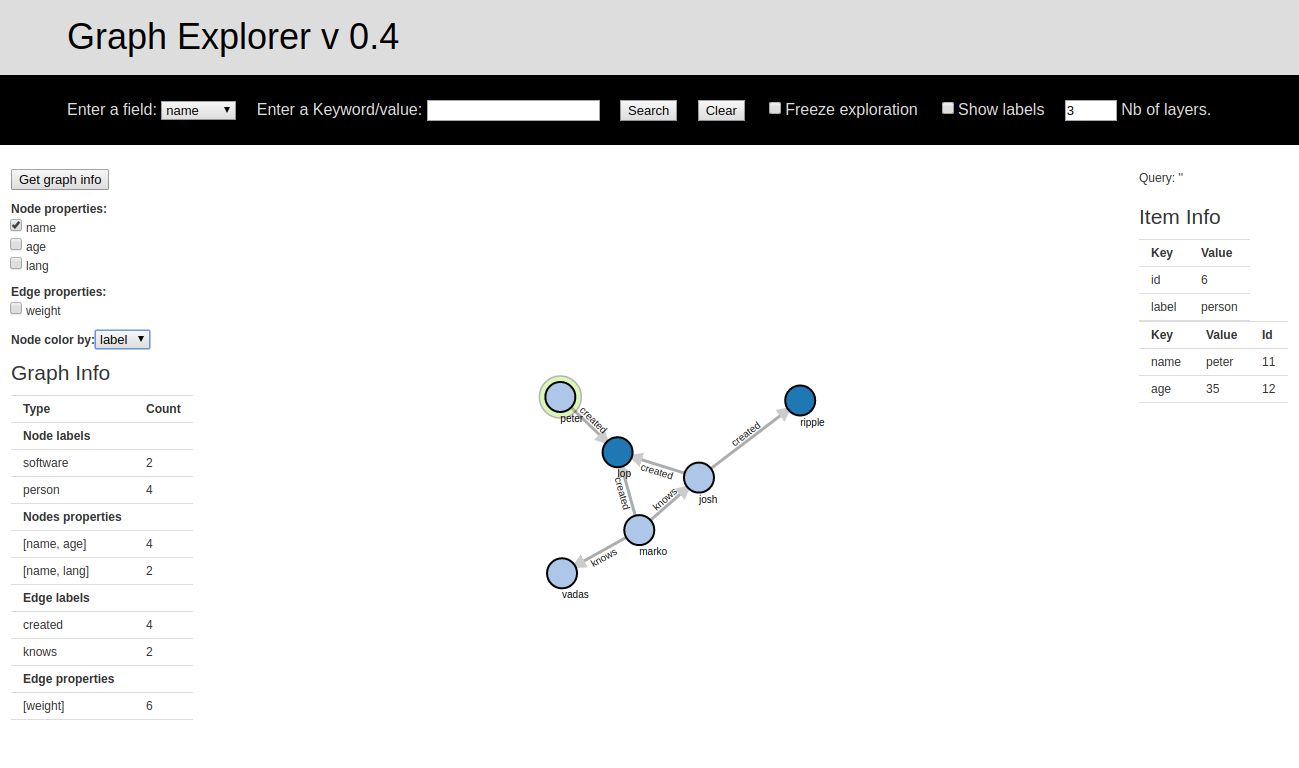
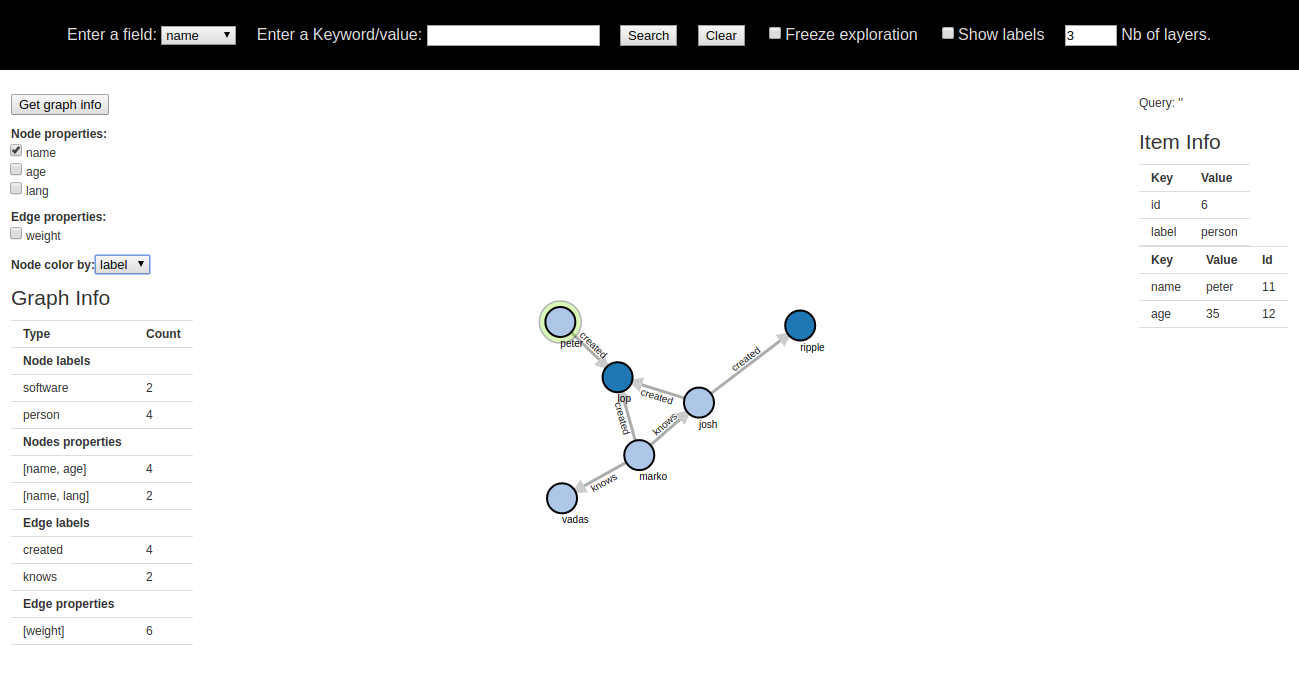
limit node display

diff --git a/graphexp.html b/graphexp.html
@@ -41,11 +41,13 @@
 
 	</head>
 	<body>
+		<!--
 		<div class="header">
 			<div class="container">
 				<h1 class="header-heading">Graph Explorer v 0.6</h1>
 			</div>
 		</div>
+		-->
 		<div class="nav-bar">
 			<div class="container" id="nav_bar">
 				<ul class="nav">
@@ -93,7 +95,7 @@
 		</div>
 		<div class="footer">
 			<div class="container">
-				<a href="http://www.github.com/bricaud/graphexp">About</a>
+				<a href="http://www.github.com/bricaud/graphexp">Graph Explorer V 0.6</a>
 			</div>
 		</div>
 		<!-- INITIALIZATION -->
@@ -172,8 +174,8 @@
 		var nav_bar = d3.select("#graphInfoBar");
 		nav_bar.select("#color_choice_"+item).remove();
 		var color_bar = nav_bar.append("div").attr("id","color_choice_"+item);
-		color_bar.append("text").text(text).style("font-weight","bold");
-		color_bar.append("select").attr("class","select").attr("id","color_select_"+item)
+		color_bar.append("div").append("text").text(text).style("font-weight","bold");
+		color_bar.append("div").append("select").attr("class","select").attr("id","color_select_"+item)
 			.attr("onchange","colorize(this)")
 			.selectAll("option")
 			.data(prop_list).enter()

diff --git a/scripts/graphioGremlin.js b/scripts/graphioGremlin.js
@@ -39,9 +39,13 @@ var graphioGremlin = (function(){
 	 	if (filtered_string.length>50) filtered_string = filtered_string.substring(0,50); // shorten long strings
 		// Translate to Gremlin query
 	  	if (input_string==""){
-	  		var gremlin_query_nodes = "nodes = g.V()"
-	  		var gremlin_query_edges = "edges = g.V().aggregate('node').outE().as('edge').inV().where(within('node')).select('edge')"
+	  		//var gremlin_query_nodes = "nodes = g.V().limit(100)"
+	  		//var gremlin_query_edges = "edges = g.V().limit(100).aggregate('node').outE().as('edge').inV().where(within('node')).select('edge')"
+	  		//var gremlin_query = gremlin_query_nodes+"\n"+gremlin_query_edges+"\n"+"[nodes.toList(),edges.toList()]"
+	  		var gremlin_query_nodes = "nodes = g.V().limit("+node_limit_per_request+")"
+	  		var gremlin_query_edges = "edges = g.V().limit("+node_limit_per_request+").aggregate('node').outE().as('edge').inV().where(within('node')).select('edge')"
 	  		var gremlin_query = gremlin_query_nodes+"\n"+gremlin_query_edges+"\n"+"[nodes.toList(),edges.toList()]"
+
 	  			  	}
 	  	else{
 	  		if (isInt(input_string)){

diff --git a/scripts/graphConf.js b/scripts/graphConf.js
@@ -9,6 +9,7 @@ const COMMUNICATION_PROTOCOL = "REST";
 
 // Graph configuration
 const default_nb_of_layers = 3;
+const node_limit_per_request = 50;
 // Simulation
 const force_strength = -600;
 const link_strength = 0.2;

diff --git a/README.md b/README.md
@@ -45,8 +45,8 @@ docker run -p 8182:8182 -it --name gremlin-server-websocket bricaud/gremlin-serv
 
 
 ### Graphexp guidelines
-To display a node, type in a property name and value, then click on the search button.
-Leaving a blank field and keyword will display the full graph (do not display the full graph if the graph is large!).
+To display a node, type in a property name and value, then click on the search button. The input is case-sensitive.
+Leaving a blank value will display a part of the graph limited to the first 50 nodes found (with their connections).
 The node and edge properties can be automatically retrieved using the `get graph info` button. Pushing this button will also display some graph properties on the left side of the page.
 
 When a node of the visualization is clicked, it will become 'active' with a circle surround it and its information will be display on the right side of the page. Moreover, this action will trigger the display of its neighbors.
@@ -80,7 +80,7 @@ The program uses:
 Once your gremlin server is up and running (from the [Docker repository](https://hub.docker.com/r/bricaud/gremlin-server-REST/)), click on the `get graph info` button. Information should appear on the left side of the page, like on the following image.
 ![graphexptol1](https://github.com/bricaud/graphexp/blob/master/images/graphexptol1.png "Graph exploration Tree of life")
 
-This graph has a single type of nodes (label 'vertex') and a single type of edges (label 'edge'). Each node is a species (taxon) of the earth, and directed edges represent the link ancestor-descendant.
+This graph has a single type of nodes (label 'vertex') and a single type of edges (label 'edge'). Each node is a species (taxon) living on earth or extinct, and directed edges represent the link ancestor-descendant.
 The different node properties are displayed on the left. 
 * `CHILDCOUNT` the number of descendent nodes
 * `name` the name of the species
@@ -91,9 +91,9 @@ The different node properties are displayed on the left.
 * `LEAF` the node is a leaf of the tree (1) or the node does not represent a leaf (it has or will have descendent nodes on the Tree of Life) (0)
 * `PHYLESIS` (0) monophylectic, (1) uncertain, (2) not monophylectic
 
-On the top navigation bar, choose the field `name`, enter 'Dinosauria' as name in the input and click on the `Search` button. A single node, corresponding to the Dinosaurs group, should appear in the middle of the page. Click on the node to display node details on the right and its ancestors and descendants on the graph. 
+On the top navigation bar, choose the field `name`, enter 'Dinosauria' as value in the input and click on the `Search` button. Do not forget the capital letter, as the search is case-sensitive. A single node, corresponding to the Dinosaurs clade, should appear in the middle of the page. Click on the node to display node details on the right as well as its ancestors and descendants on the graph. 
 Check the box `name` on the left bar to display the node names.
-You should see appearing the two orders of dinosaurs `Sauriscia` and `Ornithischia`, as in the [Wikipedia dinosaur page](https://en.wikipedia.org/wiki/Dinosaur_classification) and an additional `none` node which is the ancestor. This latter node is a taxon that have ancestors and descendants but do not have a name. Note that there are different version of the tree of life and it is always evolving as researchers find new species.
+You should see appearing the two subgroups of dinosaurs `Sauriscia` and `Ornithischia`, as in the [Wikipedia dinosaur page](https://en.wikipedia.org/wiki/Dinosaur_classification) and an additional `none` node which is the ancestor. This latter node is a taxon that has ancestors and descendants but does not have a name. Note that there are different version of the tree of life and it is always evolving as researchers find new species.
 ![graphexptol2](https://github.com/bricaud/graphexp/blob/master/images/graphexptol2.png "Graph exploration Tree of life")
 You may now enjoy the exploration of the dinosaur order by clicking on nodes and following ascendant and descendant lines. The oldest nodes will vanish as you explore the data and if you want more nodes to be displayed, just increase the number of layers on the top navigation bar.
 
